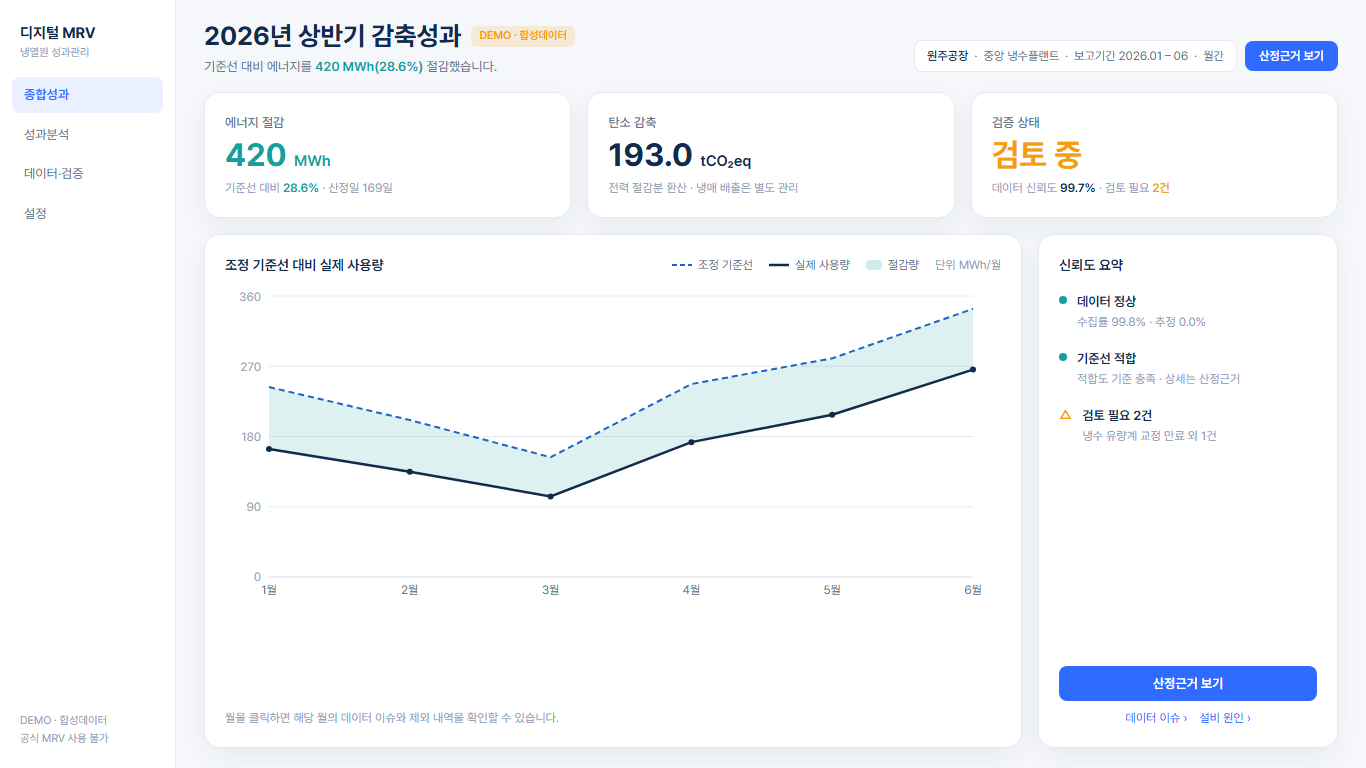
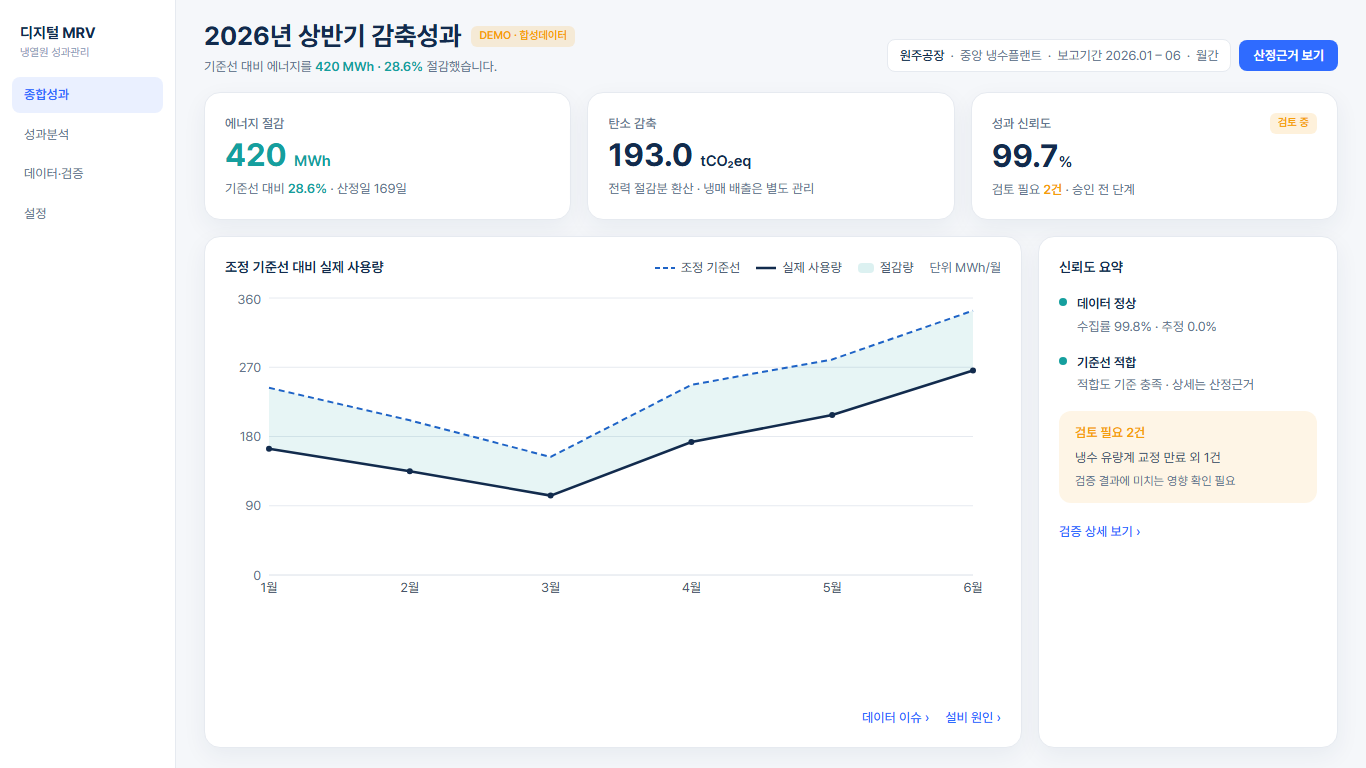
종합성과 화면 피드백 반영 (1차)
- 검증 상태 카드 → 성과 신뢰도: 99.7% 숫자 중심, 검토 중은 배지로, 보조정보 검토 필요 2건
- 산정근거 버튼 중복 제거: 우측 상단 주 버튼만 유지, 카드에는 '검증 상세 보기' 링크
- 차트 하단 안내문 삭제(툴팁으로 이동), 차트 영역 확대
- 신뢰도 요약: 검토 필요 2건을 옅은 주황 박스로, 링크는 박스 바로 아래 배치
- 보조설명·범례 13px로 확대, 색상 한 단계 진하게 (slate-400 → 500/600)
- 사이드바 DEMO 문구 제거(상단 배지만 유지), '420 MWh · 28.6%' 표기, 절감영역 투명도 0.14 → 0.10
- 데이터 이슈·설비 원인 링크를 차트 카드 하단으로 이동

diff --git a/src/screens/Overview.tsx b/src/screens/Overview.tsx
@@ -35,7 +35,7 @@ function ChartTooltip({
   if (!active || !payload?.length) return null;
   const p = payload[0].payload;
   return (
-    <div className="rounded-xl border border-line bg-white px-3.5 py-3 text-[12px] shadow-card">
+    <div className="rounded-xl border border-line bg-white px-3.5 py-3 text-[13px] shadow-card">
       <div className="mb-1.5 font-semibold text-navy">2026년 {label}</div>
       <div className="space-y-1 text-slate-500">
         <div>
@@ -48,6 +48,7 @@ function ChartTooltip({
           절감량 <span className="ml-1 font-semibold text-teal">{fmt(p.saveMWh)} MWh</span>
         </div>
         {p.nExcluded > 0 && <div className="pt-1 text-review">산정 제외 {p.nExcluded}일 포함</div>}
+        <div className="pt-1 text-[12px] text-slate-400">클릭하면 이슈·제외 내역을 아래에 표시</div>
       </div>
     </div>
   );
@@ -76,20 +77,20 @@ export default function Overview() {
           <p className="mt-1 text-[13px] text-slate-500">
             기준선 대비 에너지를{" "}
             <span className="font-semibold text-teal">
-              {fmt(k.saveMWh)} MWh({fmt(k.savePct * 100, 1)}%)
+              {fmt(k.saveMWh)} MWh · {fmt(k.savePct * 100, 1)}%
             </span>{" "}
             절감했습니다.
           </p>
         </div>
         <div className="flex items-center gap-2 pb-1">
-          <div className="flex items-center gap-1.5 rounded-lg border border-line bg-white px-3 py-1.5 text-[12px] text-slate-500">
+          <div className="flex items-center gap-1.5 rounded-lg border border-line bg-white px-3 py-1.5 text-[13px] text-slate-500">
             <span className="font-medium text-navy">{mrv.meta.site}</span>·
             <span>{mrv.meta.boundary}</span>·<span>보고기간 {mrv.meta.periodLabel}</span>·
             <span>{mrv.meta.aggLabel}</span>
           </div>
           <button
             onClick={openEvidence}
-            className="rounded-lg bg-accent px-3.5 py-1.5 text-[12px] font-semibold text-white transition-opacity hover:opacity-90"
+            className="rounded-lg bg-accent px-3.5 py-1.5 text-[13px] font-semibold text-white transition-opacity hover:opacity-90"
           >
             산정근거 보기
           </button>
@@ -106,7 +107,7 @@ export default function Overview() {
           <div className="mt-1.5 text-[32px] leading-none font-bold text-teal">
             {fmt(k.saveMWh)} <span className="text-[15px] font-semibold">MWh</span>
           </div>
-          <div className="mt-2 text-[12px] text-slate-400">
+          <div className="mt-2 text-[13px] text-slate-500">
             기준선 대비 <span className="font-semibold text-teal">{fmt(k.savePct * 100, 1)}%</span> ·
             산정일 {k.nDays}일
           </div>
@@ -119,19 +120,25 @@ export default function Overview() {
           <div className="mt-1.5 text-[32px] leading-none font-bold text-navy">
             {fmt(k.co2, 1)} <span className="text-[15px] font-semibold">tCO₂eq</span>
           </div>
-          <div className="mt-2 text-[12px] text-slate-400">전력 절감분 환산 · 냉매 배출은 별도 관리</div>
+          <div className="mt-2 text-[13px] text-slate-500">전력 절감분 환산 · 냉매 배출은 별도 관리</div>
         </button>
         <button
           onClick={() => setMenu("verify")}
           className="rounded-2xl border border-line bg-white p-5 text-left shadow-card transition-colors hover:border-accent/40"
         >
-          <div className="text-[13px] font-medium text-slate-500">검증 상태</div>
-          <div className="mt-1.5 flex items-baseline gap-2">
-            <span className="text-[32px] leading-none font-bold text-review">{k.verifyState}</span>
+          <div className="flex items-center justify-between">
+            <span className="text-[13px] font-medium text-slate-500">성과 신뢰도</span>
+            <span className="rounded-md bg-review/15 px-2 py-0.5 text-[11px] font-semibold text-review">
+              {k.verifyState}
+            </span>
           </div>
-          <div className="mt-2 text-[12px] text-slate-400">
-            데이터 신뢰도 <span className="font-semibold text-navy">{fmt(k.trustRate * 100, 1)}%</span>{" "}
-            · 검토 필요 <span className="font-semibold text-review">{k.reviewCount}건</span>
+          <div className="mt-1.5 text-[32px] leading-none font-bold text-navy">
+            {fmt(k.trustRate * 100, 1)}
+            <span className="text-[15px] font-semibold">%</span>
+          </div>
+          <div className="mt-2 text-[13px] text-slate-500">
+            검토 필요 <span className="font-semibold text-review">{k.reviewCount}건</span> · 승인 전
+            단계
           </div>
         </button>
       </section>
@@ -141,7 +148,7 @@ export default function Overview() {
         <div className="flex min-h-0 flex-col rounded-2xl border border-line bg-white p-5 shadow-card">
           <div className="flex shrink-0 items-center justify-between">
             <div className="text-[14px] font-semibold text-navy">조정 기준선 대비 실제 사용량</div>
-            <div className="flex items-center gap-4 text-[12px] text-slate-500">
+            <div className="flex items-center gap-4 text-[13px] text-slate-600">
               <span className="flex items-center gap-1.5">
                 <svg width="20" height="6" aria-hidden>
                   <line x1="0" y1="3" x2="20" y2="3" stroke="#1e63c6" strokeWidth="2" strokeDasharray="5 3" />
@@ -155,10 +162,10 @@ export default function Overview() {
                 실제 사용량
               </span>
               <span className="flex items-center gap-1.5">
-                <span className="inline-block h-2.5 w-4 rounded-sm bg-teal/20" aria-hidden />
+                <span className="inline-block h-2.5 w-4 rounded-sm bg-teal/15" aria-hidden />
                 절감량
               </span>
-              <span className="text-slate-400">단위 MWh/월</span>
+              <span className="text-slate-500">단위 MWh/월</span>
             </div>
           </div>
           <div className="min-h-0 flex-1 pt-3">
@@ -175,12 +182,12 @@ export default function Overview() {
                 <CartesianGrid stroke="#e6eaf0" vertical={false} />
                 <XAxis
                   dataKey="label"
-                  tick={{ fontSize: 12, fill: "#64748b" }}
+                  tick={{ fontSize: 13, fill: "#475569" }}
                   axisLine={{ stroke: "#e6eaf0" }}
                   tickLine={false}
                 />
                 <YAxis
-                  tick={{ fontSize: 12, fill: "#94a3b8" }}
+                  tick={{ fontSize: 13, fill: "#64748b" }}
                   axisLine={false}
                   tickLine={false}
                   width={44}
@@ -194,7 +201,7 @@ export default function Overview() {
                   stackId="band"
                   stroke="none"
                   fill="#159f9e"
-                  fillOpacity={0.14}
+                  fillOpacity={0.1}
                   isAnimationActive={false}
                 />
                 <Line
@@ -217,33 +224,36 @@ export default function Overview() {
               </ComposedChart>
             </ResponsiveContainer>
           </div>
-          <div className="shrink-0 pt-2 text-[12px] text-slate-400">
-            {sel ? (
-              <span>
-                <span className="font-semibold text-navy">
-                  {Number(selectedMonth!.slice(5))}월
-                </span>{" "}
-                — 산정 제외 {sel.excl}일
-                {sel.issues.length > 0 && (
-                  <>
-                    {" "}
-                    ·{" "}
-                    {sel.issues
-                      .map((i: { id: string; title: string }) => `${i.id} ${i.title}`)
-                      .join(" · ")}
-                  </>
-                )}
-                <button onClick={() => setMenu("verify")} className="ml-2 font-medium text-accent hover:underline">
-                  상세 보기
-                </button>
-              </span>
-            ) : (
-              <span>월을 클릭하면 해당 월의 데이터 이슈와 제외 내역을 확인할 수 있습니다.</span>
-            )}
+          <div className="flex shrink-0 items-center justify-between gap-4 pt-2 text-[13px]">
+            <div className="min-w-0 truncate text-slate-500">
+              {sel && (
+                <span>
+                  <span className="font-semibold text-navy">{Number(selectedMonth!.slice(5))}월</span>{" "}
+                  — 산정 제외 {sel.excl}일
+                  {sel.issues.length > 0 && (
+                    <>
+                      {" "}
+                      ·{" "}
+                      {sel.issues
+                        .map((i: { id: string; title: string }) => `${i.id} ${i.title}`)
+                        .join(" · ")}
+                    </>
+                  )}
+                </span>
+              )}
+            </div>
+            <div className="flex shrink-0 gap-4">
+              <button onClick={() => setMenu("verify")} className="font-medium text-accent hover:underline">
+                데이터 이슈 ›
+              </button>
+              <button onClick={() => setMenu("analysis")} className="font-medium text-accent hover:underline">
+                설비 원인 ›
+              </button>
+            </div>
           </div>
         </div>
 
-        {/* 신뢰도 요약 — 상태 3줄 + 산정근거 버튼 (v2.1 §2.1) */}
+        {/* 신뢰도 요약 — 상태 2줄 + 검토 필요 박스 + 상세 링크 (v2.1 §2.1) */}
         <div className="flex min-h-0 flex-col rounded-2xl border border-line bg-white p-5 shadow-card">
           <div className="shrink-0 text-[14px] font-semibold text-navy">신뢰도 요약</div>
           <div className="mt-4 space-y-4">
@@ -251,7 +261,7 @@ export default function Overview() {
               <span className="mt-1 size-2 shrink-0 rounded-full bg-teal" aria-hidden />
               <div>
                 <div className="text-[13px] font-semibold text-navy">데이터 정상</div>
-                <div className="mt-0.5 text-[12px] leading-relaxed text-slate-400">
+                <div className="mt-0.5 text-[13px] leading-relaxed text-slate-500">
                   수집률 {fmt(k.collectRate * 100, 1)}% · 추정 {fmt(k.estRate * 100, 1)}%
                 </div>
               </div>
@@ -260,43 +270,28 @@ export default function Overview() {
               <span className="mt-1 size-2 shrink-0 rounded-full bg-teal" aria-hidden />
               <div>
                 <div className="text-[13px] font-semibold text-navy">기준선 적합</div>
-                <div className="mt-0.5 text-[12px] leading-relaxed text-slate-400">
-                  적합도 기준 {mrv.baseline.pass ? "충족" : "미충족"} · 상세는 산정근거
+                <div className="mt-0.5 text-[13px] leading-relaxed text-slate-500">
+                  적합도 기준 충족 · 상세는 산정근거
                 </div>
               </div>
             </div>
-            <div className="flex items-start gap-2.5">
-              <span
-                className="mt-0.5 shrink-0 text-[13px] leading-none font-bold text-review"
-                aria-hidden
-              >
-                △
-              </span>
-              <div>
-                <div className="text-[13px] font-semibold text-navy">검토 필요 {k.reviewCount}건</div>
-                {topReview && (
-                  <div className="mt-0.5 text-[12px] leading-relaxed text-slate-400">
-                    {topReview.title} 외 {k.reviewCount - 1}건
-                  </div>
-                )}
+            <div className="rounded-xl bg-review/10 px-4 py-3">
+              <div className="text-[13px] font-semibold text-review">검토 필요 {k.reviewCount}건</div>
+              {topReview && (
+                <div className="mt-1 text-[13px] leading-relaxed text-slate-600">
+                  {topReview.title} 외 {k.reviewCount - 1}건
+                </div>
+              )}
+              <div className="mt-1 text-[12px] leading-relaxed text-slate-500">
+                검증 결과에 미치는 영향 확인 필요
               </div>
             </div>
-          </div>
-          <div className="mt-auto space-y-2 pt-4">
             <button
-              onClick={openEvidence}
-              className="w-full rounded-lg bg-accent py-2 text-[13px] font-semibold text-white transition-opacity hover:opacity-90"
+              onClick={() => setMenu("verify")}
+              className="text-[13px] font-medium text-accent hover:underline"
             >
-              산정근거 보기
+              검증 상세 보기 ›
             </button>
-            <div className="flex justify-center gap-3 text-[12px]">
-              <button onClick={() => setMenu("verify")} className="text-accent hover:underline">
-                데이터 이슈 ›
-              </button>
-              <button onClick={() => setMenu("analysis")} className="text-accent hover:underline">
-                설비 원인 ›
-              </button>
-            </div>
           </div>
         </div>
       </section>

diff --git a/src/App.tsx b/src/App.tsx
@@ -36,11 +36,6 @@ export default function App() {
             </button>
           ))}
         </nav>
-        <div className="mt-auto px-5 pb-5 text-[11px] leading-relaxed text-slate-400">
-          DEMO · 합성데이터
-          <br />
-          공식 MRV 사용 불가
-        </div>
       </aside>
 
       {/* 메인 영역 */}
